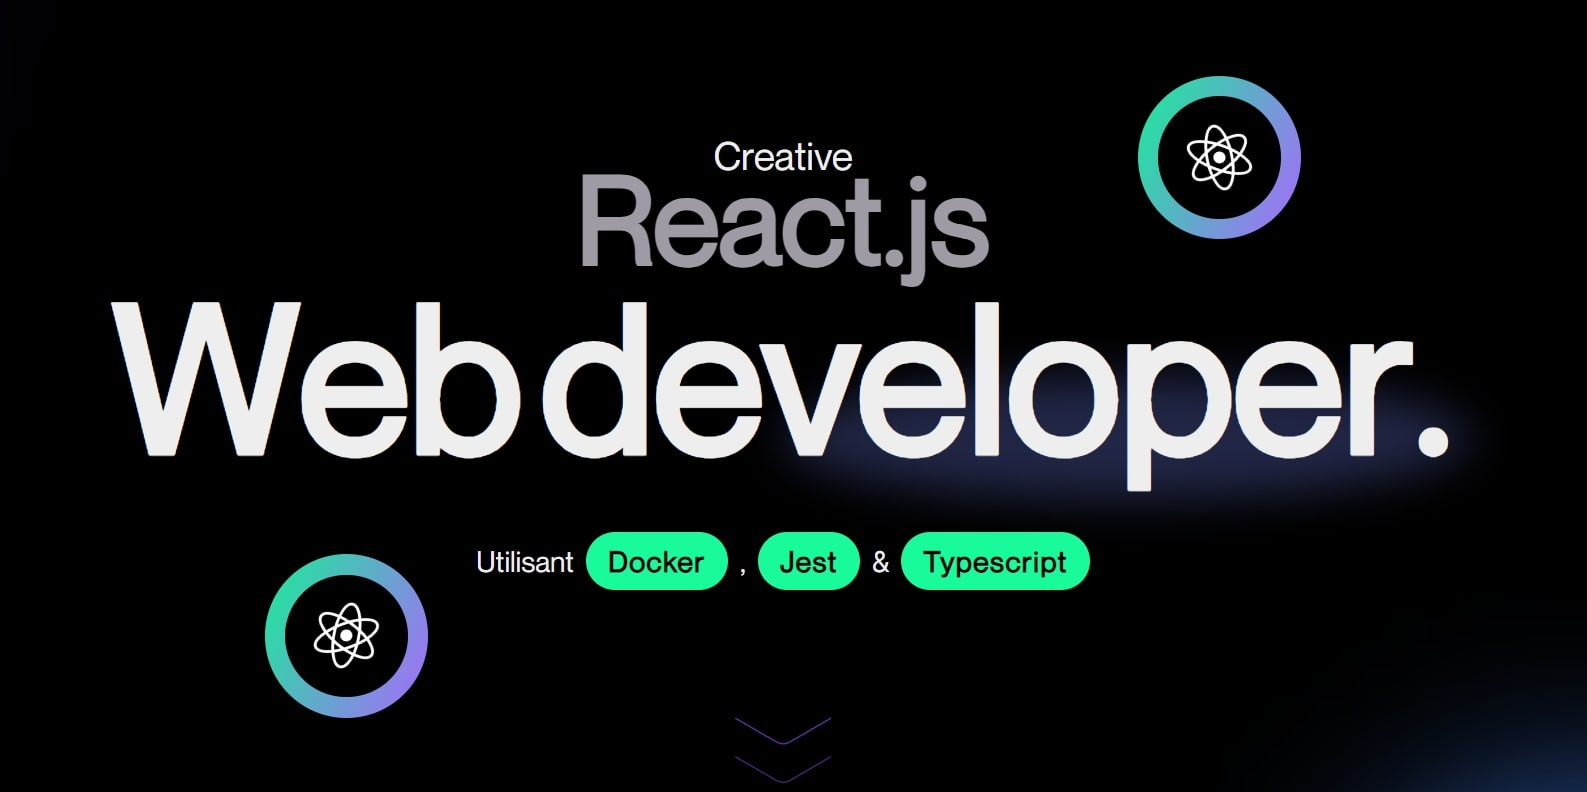
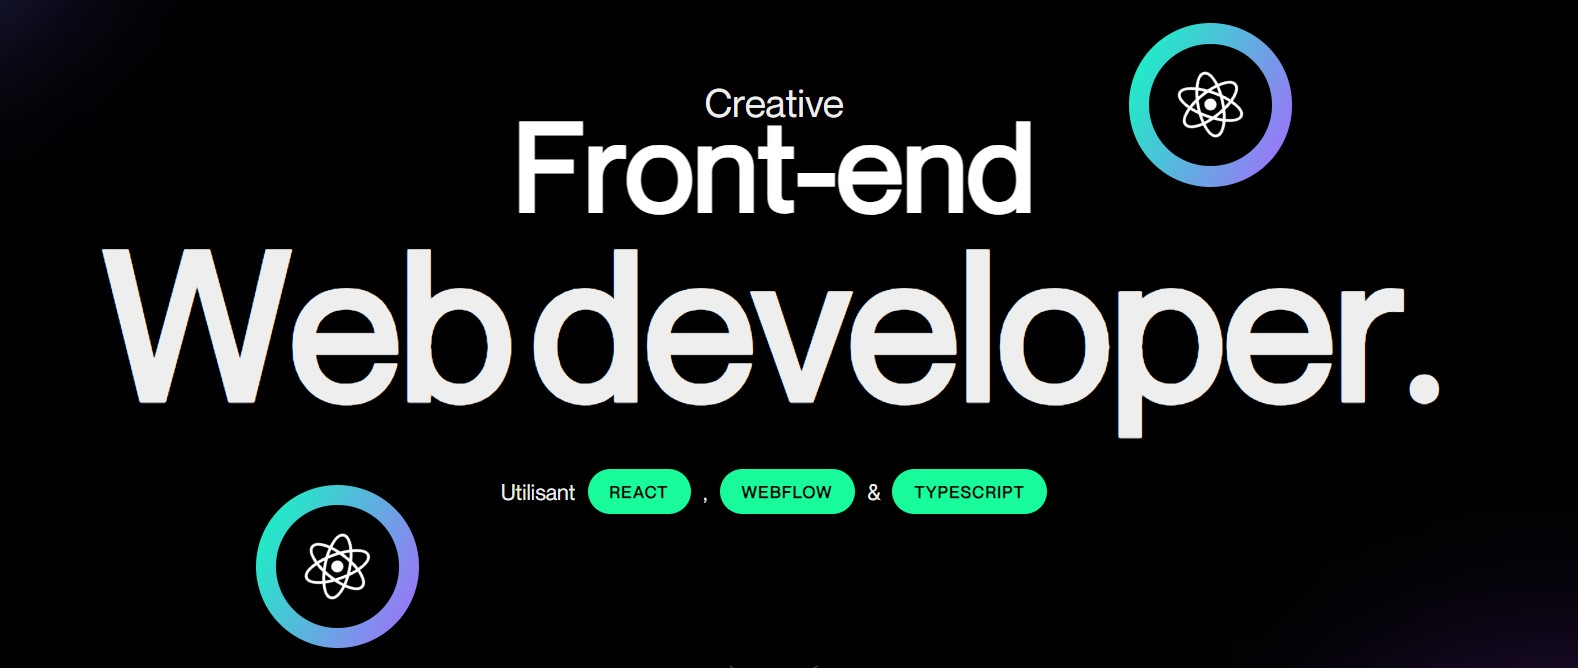
feat: modifying header title

diff --git a/src/utils/stacks/logos.ts b/src/utils/stacks/logos.ts
@@ -6,6 +6,7 @@ import Redux from '../../images/stacks/front/redux.svg';
 import ReactJs from '../../images/stacks/front/react.svg';
 import GraphQl from '../../images/stacks/front/graphql.svg';
 import RestApi from '../../images/stacks/front/rest-api.svg';
+import Webflow from '../../images/stacks/front/webflow.svg';
 // back
 import Sql from '../../images/stacks/back/sql.svg';
 import NodeJs from '../../images/stacks/back/nodejs.svg';
@@ -24,7 +25,7 @@ export const frontEndLogos = [
       { name: 'Jest', class: 'jest', image: Jest },
       { name: 'Redux', class: 'redux', image: Redux },
       { name: 'Context', class: 'context', image: ReactJs },
-      { name: 'Rest Api', class: 'restapi', image: RestApi },
+      { name: 'Webflow', class: 'restapi', image: Webflow },
     ],
   },
   {

diff --git a/src/components/layouts/Header.tsx b/src/components/layouts/Header.tsx
@@ -82,9 +82,9 @@ const Header = () => {
 				<div className="header__wrapper">
 					<div className="header__description">
 						<p>{t('descriptionBanner')}</p>
-						<BadgeHeader href={'https://www.docker.com/'} text={'Docker'} />
+						<BadgeHeader href={'https://react.dev/'} text={'React'} />
 						<p>,</p>
-						<BadgeHeader href={'https://jestjs.io/fr/'} text={'Jest'} />
+						<BadgeHeader href={'https://webflow.com/'} text={'Webflow'} />
 						<p>&</p>
 						<BadgeHeader
 							href={'https://www.typescriptlang.org/'}
